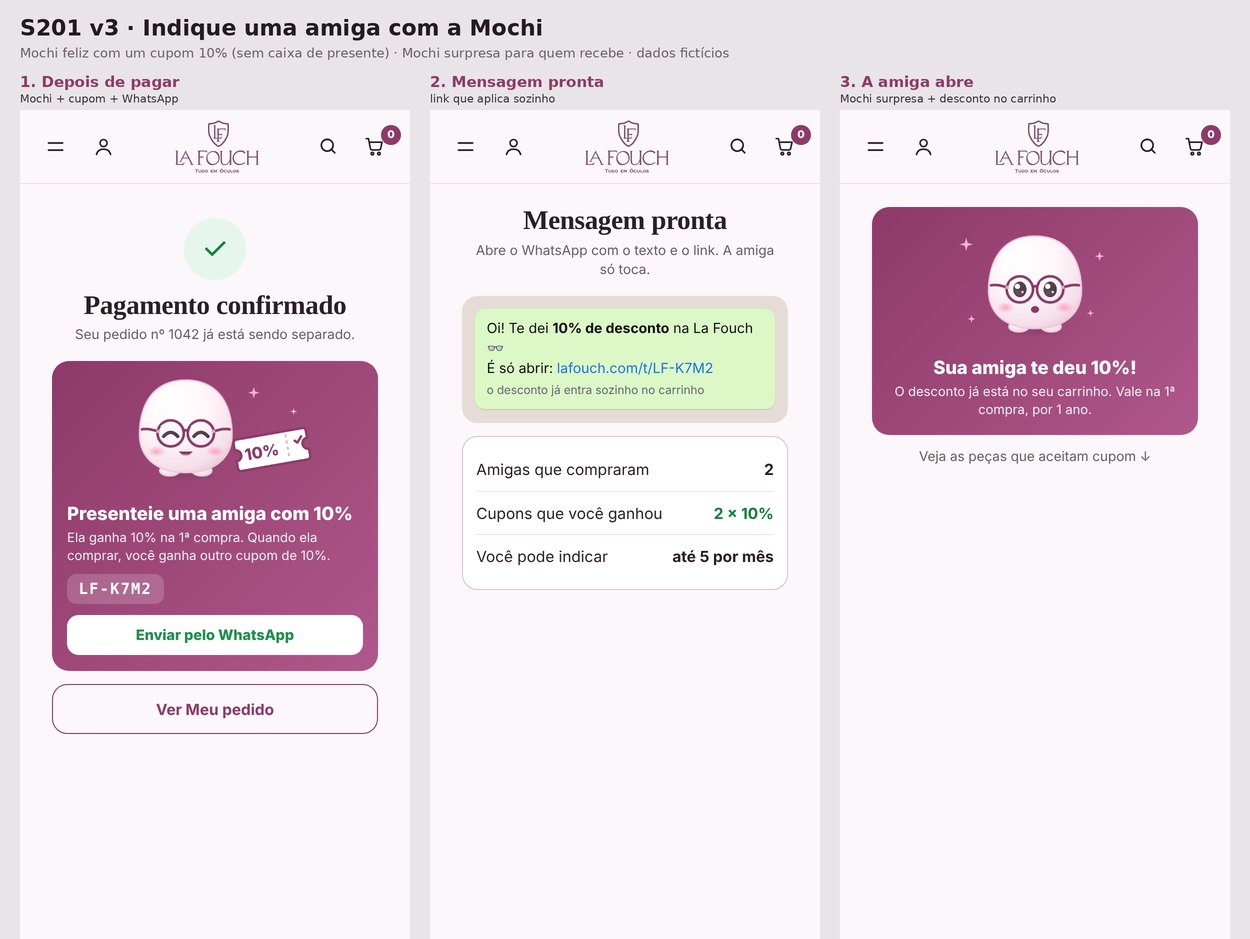
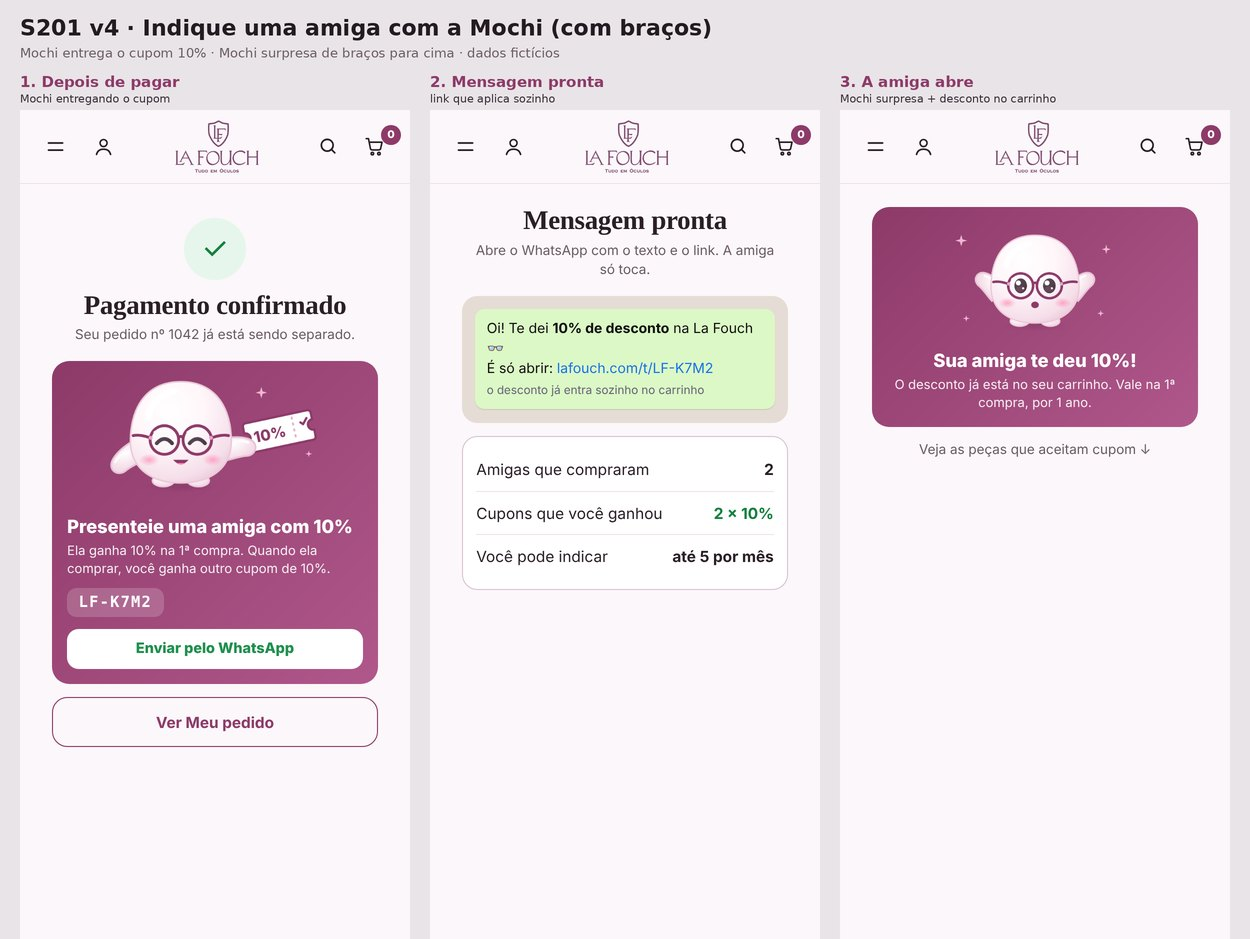
S201 v4: Mochi com braços; renderizador da Mochi no kit
Claude-Session: https://claude.ai/code/session_01Vj5GPR2QjandaFr6ascRKC

diff --git a/work/kit/arte/mochi_code.js b/work/kit/arte/mochi_code.js
@@ -58,4 +58,4 @@ ${MK('e')}${MK('d')}
  ${ARM('aFe',1)}${ARM('aFd',1)}
  <g class="pon" opacity="0"><g class="ponT"><circle class="mao" cx="25" cy="0" r="6" opacity="0"/><rect x="23" y="-3.2" width="14.7" height="6.4" rx="3" fill="#8d3a69"/><path class="haste" d="M36.7 0 H71" stroke="#8d3a69" stroke-width="3" stroke-linecap="round"/><g class="luva" transform="translate(71 0) scale(.75)">${LUVA}</g></g></g>
  <g class="itF"></g>
-</g></g></g></g></svg>`;;return MOCHI_SVG})();
+</g></g></g></g></svg>`;;return {svg:MOCHI_SVG,ARMP,ARMH,ARMHF,armT,dentro,cl}})();

diff --git a/work/kit/arte/mochi_render.py b/work/kit/arte/mochi_render.py
@@ -1,0 +1,18 @@
+import sys,json
+from playwright.sync_api import sync_playwright
+code=open('/tmp/k/mochi_code.js').read()
+ARMJS="""(a)=>{const M=window.__M,m=document.getElementById('m');m.innerHTML=M.svg;const q=s=>m.querySelector(s);
+function armSet(lado,ang,L){const c=lado<0?'e':'d',B=q('.aB'+c),F=q('.aF'+c),T=M.armT(lado,ang),p=M.ARMP(L);let op=M.cl((1.02-M.dentro(lado,ang,L))/.14,0,1);if(a.frente)op=1;
+ B.firstChild.setAttribute('d',p);B.lastChild.setAttribute('d',M.ARMH(L));const t=F.firstChild;t.children[0].setAttribute('d',p);t.children[1].setAttribute('d',p);t.children[2].setAttribute('d',M.ARMHF(L));q('.mk'+c).firstChild.setAttribute('d',p);
+ B.setAttribute('transform',T);B.style.display=op<1?'':'none';F.firstChild.setAttribute('transform',T);q('.mk'+c).setAttribute('transform',T);F.style.display=op>0?'':'none';F.setAttribute('opacity',op.toFixed(3))}
+armSet(-1,a.e,a.L||30);armSet(1,a.d,a.L||30);
+m.querySelectorAll('.esp').forEach(e=>e.style.display='none');
+if(a.face==='feliz'){m.querySelectorAll('.olhos').forEach(e=>e.setAttribute('opacity','0'));m.querySelectorAll('.olhosF').forEach(e=>e.setAttribute('opacity','1'));m.querySelectorAll('.bW').forEach(e=>e.setAttribute('opacity','0'));m.querySelectorAll('.bF').forEach(e=>e.setAttribute('opacity','1'))}
+if(a.face==='surpresa'){m.querySelectorAll('.bW').forEach(e=>e.setAttribute('opacity','0'));m.querySelectorAll('.bO').forEach(e=>e.setAttribute('opacity','1'))}}"""
+def render(out,face,e,d,extra='',left=10,W=380,H=260,frente=False):
+    with sync_playwright() as pw:
+        b=pw.chromium.launch(executable_path='/opt/pw-browsers/chromium',args=['--no-sandbox']);pg=b.new_page(viewport={'width':W,'height':H},device_scale_factor=3)
+        pg.set_content(f'<body style="margin:0;background:transparent"><div style="position:relative;width:{W}px;height:{H}px"><div id=m style="position:absolute;left:{left}px;top:10px;width:250px;height:230px"></div>{extra}</div></body>')
+        pg.add_script_tag(content=code);pg.evaluate(ARMJS,{'face':face,'e':e,'d':d,'frente':frente});pg.wait_for_timeout(200);pg.screenshot(path=out,omit_background=True);b.close()
+if __name__=='__main__':
+    for i,(e,d) in enumerate([(35,40),(35,-30),(-40,-40),(60,10)]): render(f'/tmp/k/mt{i}.png','feliz',e,d)

diff --git a/docs/MEMORIA-PROJETO.md b/docs/MEMORIA-PROJETO.md
@@ -1911,3 +1911,4 @@ Decisões do dono sobre a tela Venda confirmada (esboço "venda_confirmada_compr
 - 12/11 15:57 DONO: APROVADO S200 (lucro real). S201: reaproveitar a Mochi dos descontos (uma que represente indicar amiga) + rosto de surpresa/alegria ao receber o cupom. Perguntou: Leve 2 com 2 leituras diferentes? Como o cliente sabe que a 2ª peça tem desconto?
 - 12/11 16:20 ESBOÇO S201 v2 (work/s190/s201_amiga.jpg): Mochi FELIZ com presente '10%' no cartão de indicar (tela de pagamento confirmado) + Mochi SURPRESA (olhos abertos, boca 'o', brilhos) na faixa da amiga 'Sua amiga te deu 10%!'. Mochi desenhada com o próprio desenho do site (sem espelho de testa e sem faixa); arquivos em work/kit/arte/. Aguardando aprovação. Leve 2: vale para 2 leituras diferentes (ou leitura + sol); hoje o cliente só vê no resumo do carrinho (proposta: linha na peça, aviso ao adicionar a 1ª, linha '2ª peça −30%' no item).
 - 12/11 16:25 DONO: presente com forma inapropriada → trocado por CUPOM (ticket branco com borda vinho, '10%' e ✓, picote tracejado) ao lado da Mochi feliz. S201 v3.
+- 12/11 16:35 DONO: Mochi deve ter BRAÇOS (o desenho estático não montava os braços do esqueleto). Corrigido: work/kit/arte/mochi_render.py desenha a Mochi com braços (render(saida, face 'feliz'|'surpresa', ângulo braço esq., dir.)). S201 v4: Mochi feliz estendendo o braço com o cupom 10%; Mochi surpresa com os dois braços para cima. REGRA: Mochi sempre com braços.
